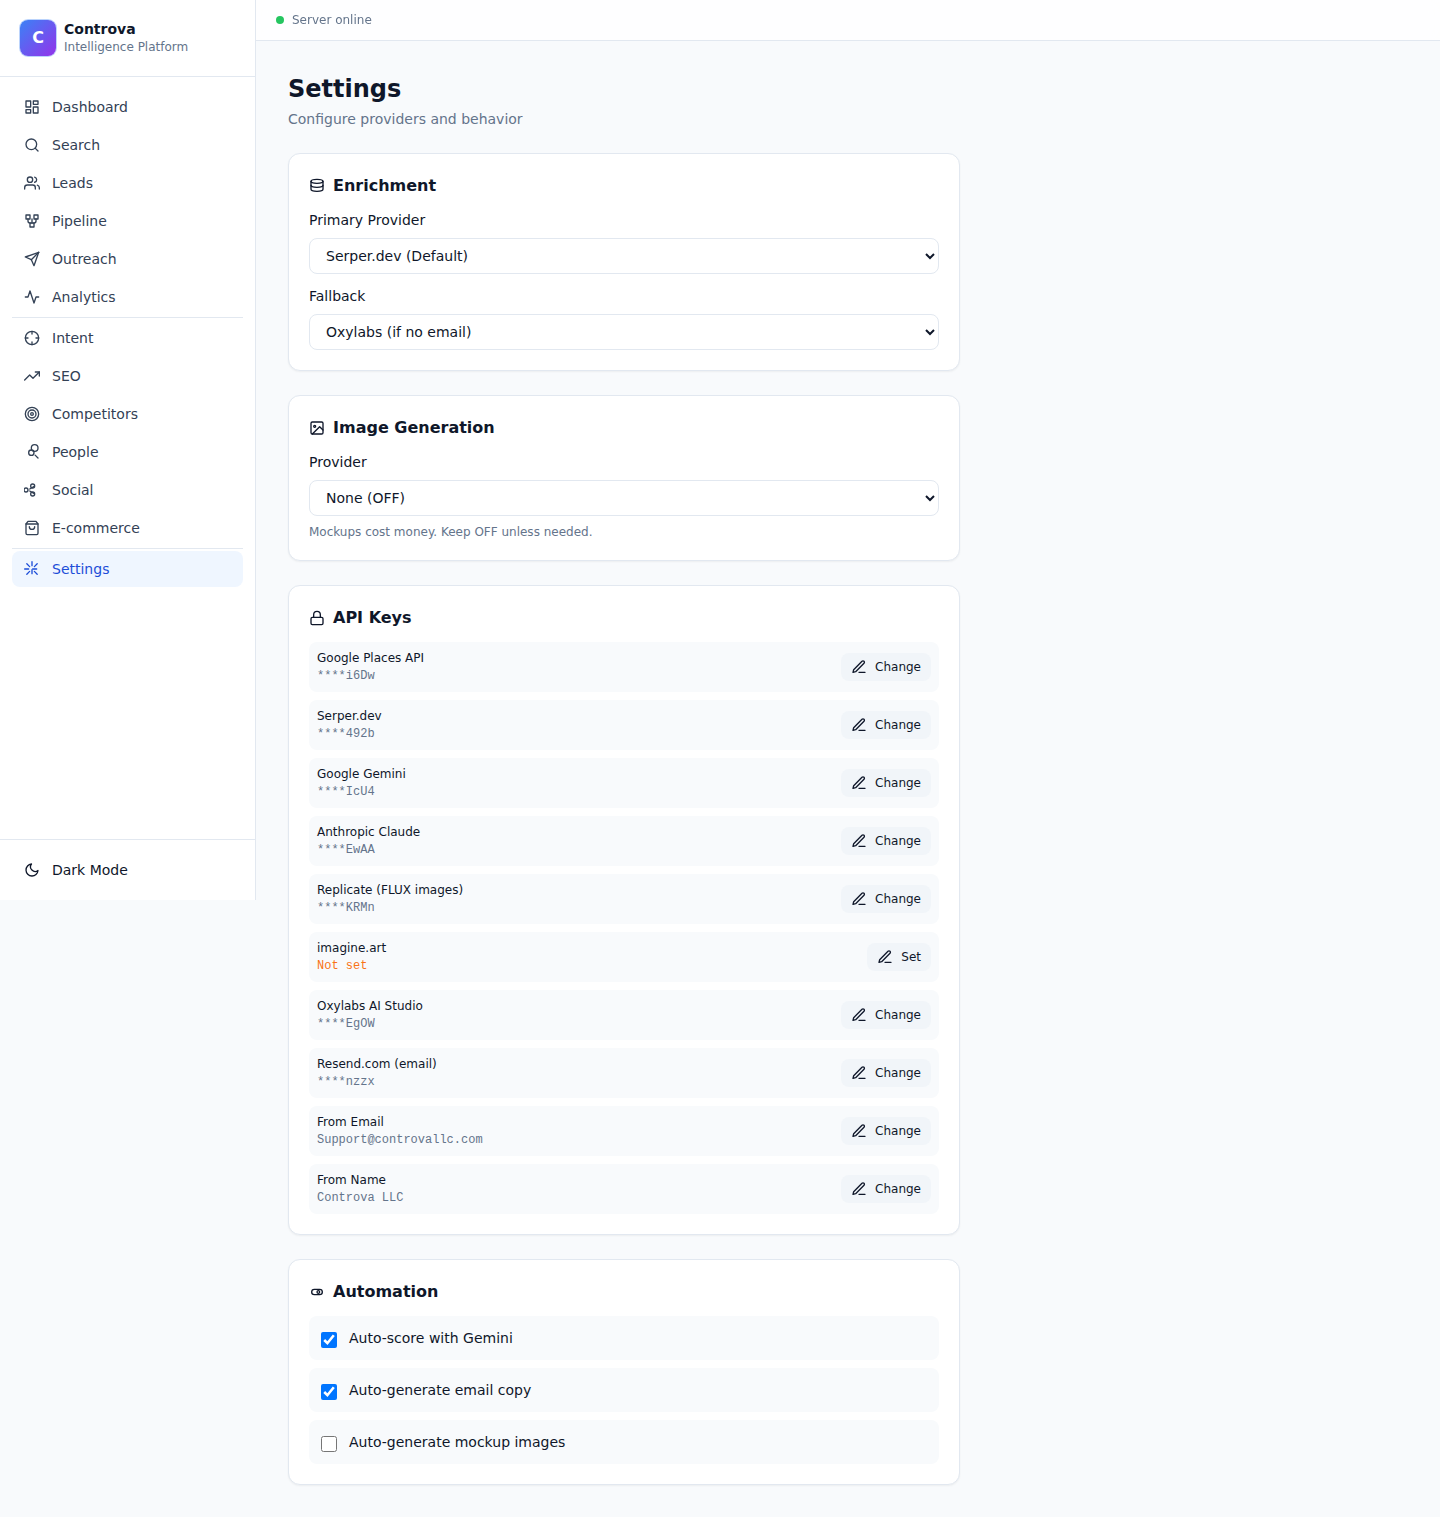
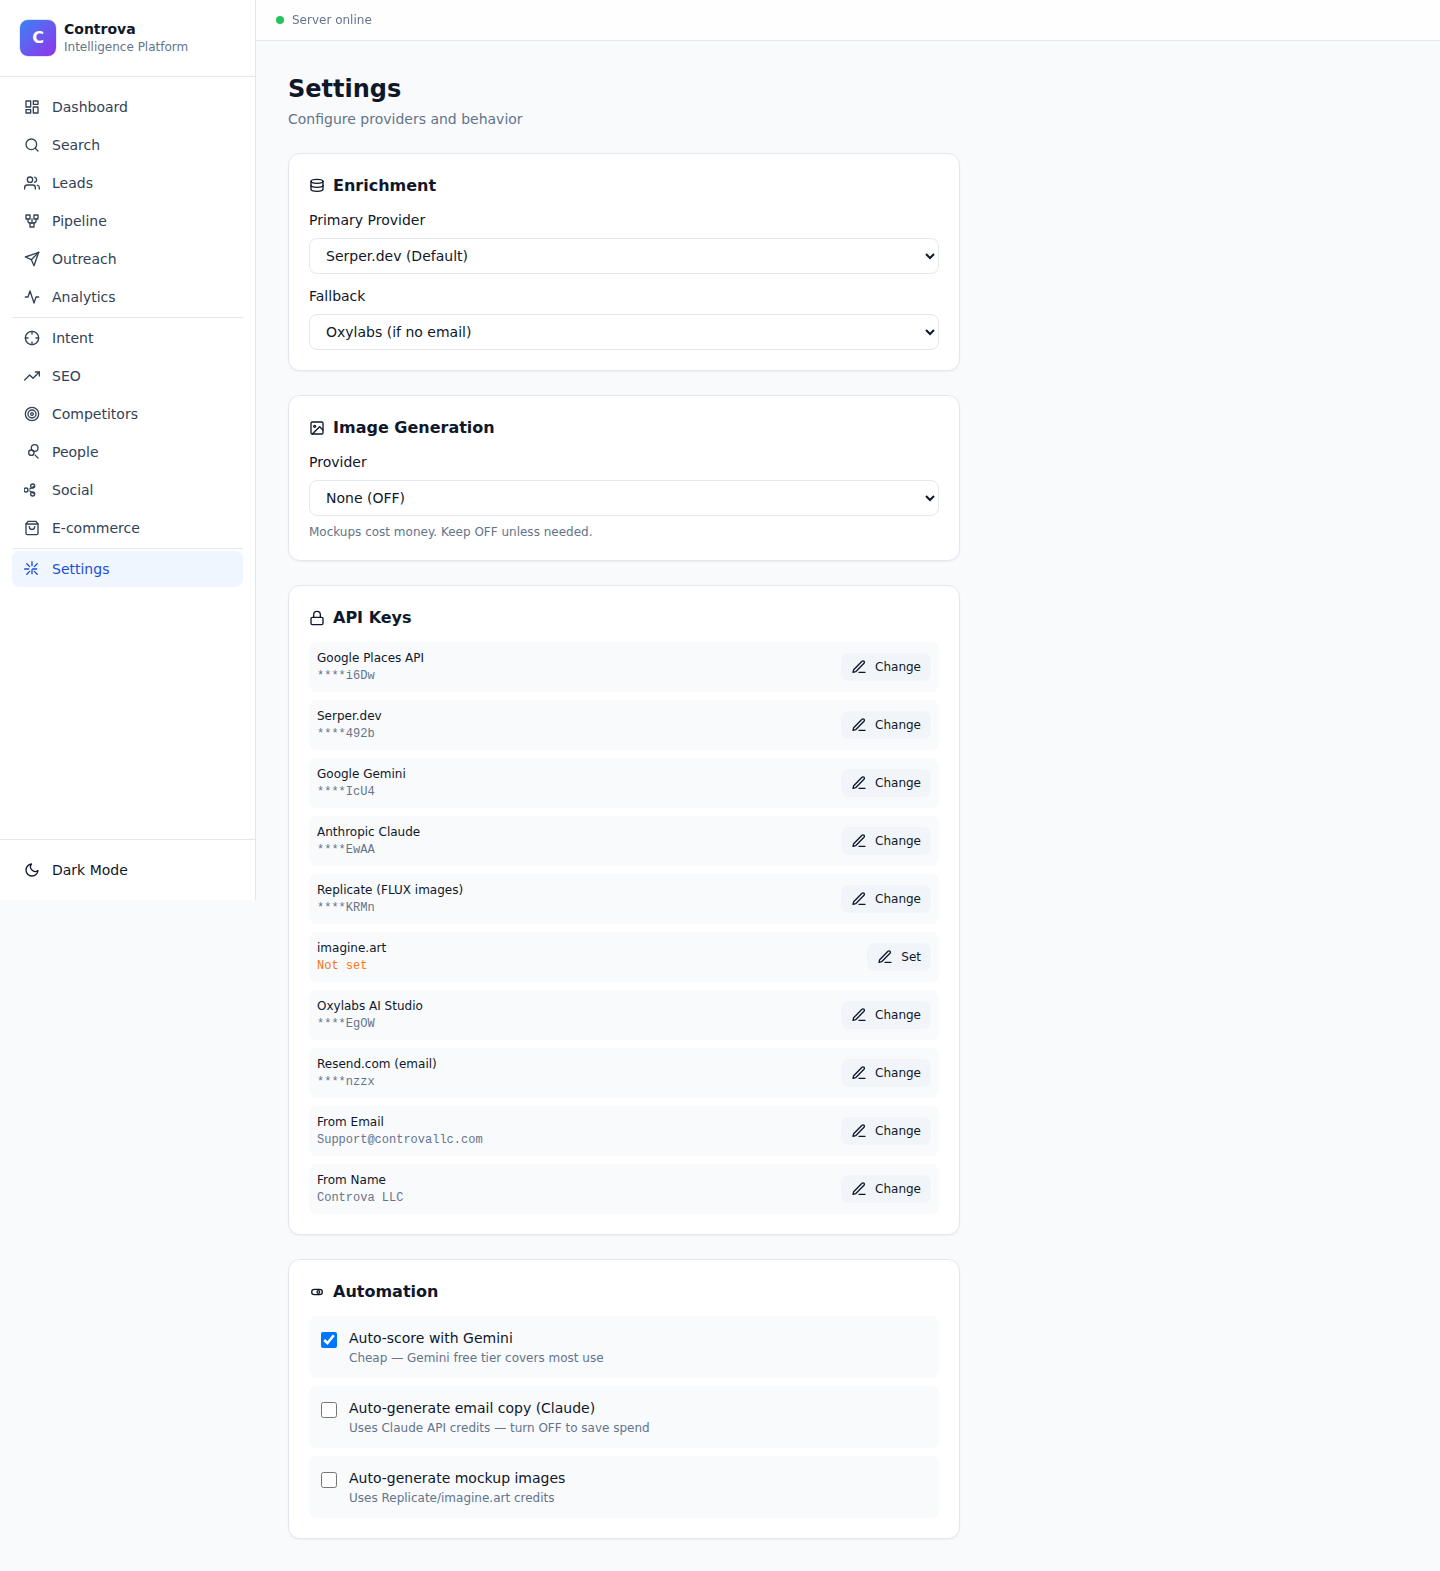
Make Claude email-copy toggle effective across all code paths
The auto_email_copy setting only gated the bulk /generate-assets pipeline
- /lead/{id}/regenerate-email called Claude unconditionally and quietly
spent API credits. Move the guard to the source (generate_email_copy)
so every caller, present and future, is covered:

- generate_email_copy() now returns None and logs '[claude] skipped'
  when auto_email_copy is off or CLAUDE_KEY is missing
- regenerate_email_for_lead() surfaces a clear user-facing error
  ('Claude email generation is OFF. Enable it in Settings > Pipeline
  Automation.') instead of a generic 'Claude generation failed'
- Settings UI now shows the credit-cost note under each automation
  toggle so users see at a glance which switches spend money

Verified end-to-end with toggle OFF: /generate-assets returns 0 results
without calling Claude, /regenerate-email returns the friendly error,
the OFF state persists across API restarts via config.json.

https://claude.ai/code/session_012Wj8LMNqACMpauP9Ku6QcB

diff --git a/server/dashboard.html b/server/dashboard.html
@@ -1941,13 +1941,16 @@ const SettingsPage = () => {
         <h3 className="font-semibold mb-3 flex items-center gap-2"><Icon name="ToggleRight" /> Automation</h3>
         <div className="space-y-2">
           {[
-            { key: 'auto_score', label: 'Auto-score with Gemini' },
-            { key: 'auto_email_copy', label: 'Auto-generate email copy' },
-            { key: 'auto_image', label: 'Auto-generate mockup images' },
+            { key: 'auto_score', label: 'Auto-score with Gemini', cost: 'Cheap — Gemini free tier covers most use' },
+            { key: 'auto_email_copy', label: 'Auto-generate email copy (Claude)', cost: 'Uses Claude API credits — turn OFF to save spend' },
+            { key: 'auto_image', label: 'Auto-generate mockup images', cost: 'Uses Replicate/imagine.art credits' },
           ].map(opt => (
             <label key={opt.key} className="flex items-start gap-3 p-3 bg-slate-50 dark:bg-slate-800 rounded-lg cursor-pointer">
               <input type="checkbox" checked={!!config[opt.key]} onChange={e => update(opt.key, e.target.checked)} className="mt-1 w-4 h-4" />
-              <div className="font-medium text-sm">{opt.label}</div>
+              <div>
+                <div className="font-medium text-sm">{opt.label}</div>
+                <div className="text-xs text-slate-500 mt-0.5">{opt.cost}</div>
+              </div>
             </label>
           ))}
         </div>

diff --git a/server/leads_api.py b/server/leads_api.py
@@ -1146,6 +1146,12 @@ def generate_image(business_name, niche, city, provider=None):
 #  CLAUDE EMAIL COPYWRITING
 # ──────────────────────────────────────────────────────────────
 def generate_email_copy(business_name, niche, city, owner_name=None):
+    if not CONFIG.get('auto_email_copy', True):
+        print('[claude] skipped: auto_email_copy disabled in settings')
+        return None
+    if not CLAUDE_KEY:
+        print('[claude] skipped: no CLAUDE_KEY configured')
+        return None
     name_part = owner_name if owner_name else 'there'
     prompt = f"""Write a 120-word personalized cold outreach message for a small business owner.
 
@@ -2376,6 +2382,10 @@ def regenerate_email_for_lead(lead_id, extra_instructions=""):
     )
 
     if not email:
+        if not CONFIG.get('auto_email_copy', True):
+            return {"success": False, "error": "Claude email generation is OFF. Enable it in Settings > Pipeline Automation."}
+        if not CLAUDE_KEY:
+            return {"success": False, "error": "No Claude API key configured. Add one in Settings > API Keys."}
         return {"success": False, "error": "Claude generation failed"}
 
     conn = db_conn(); cur = conn.cursor()
